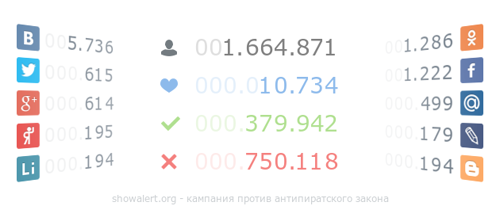
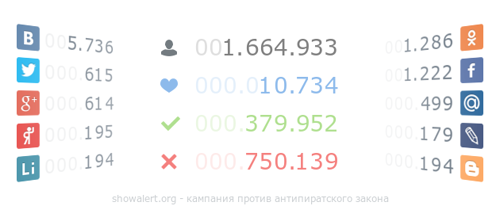
update statistics files for plugins

Changed region(s): [[0.57, 0.1748, 0.69, 0.2913], [0.63, 0.7282, 0.69, 0.8447], [0.6, 0.5534, 0.66, 0.6408]]

diff --git a/votes.js b/votes.js
@@ -1,1 +1,1 @@
-window.lk.votes(30817)
+window.lk.votes(30827)
